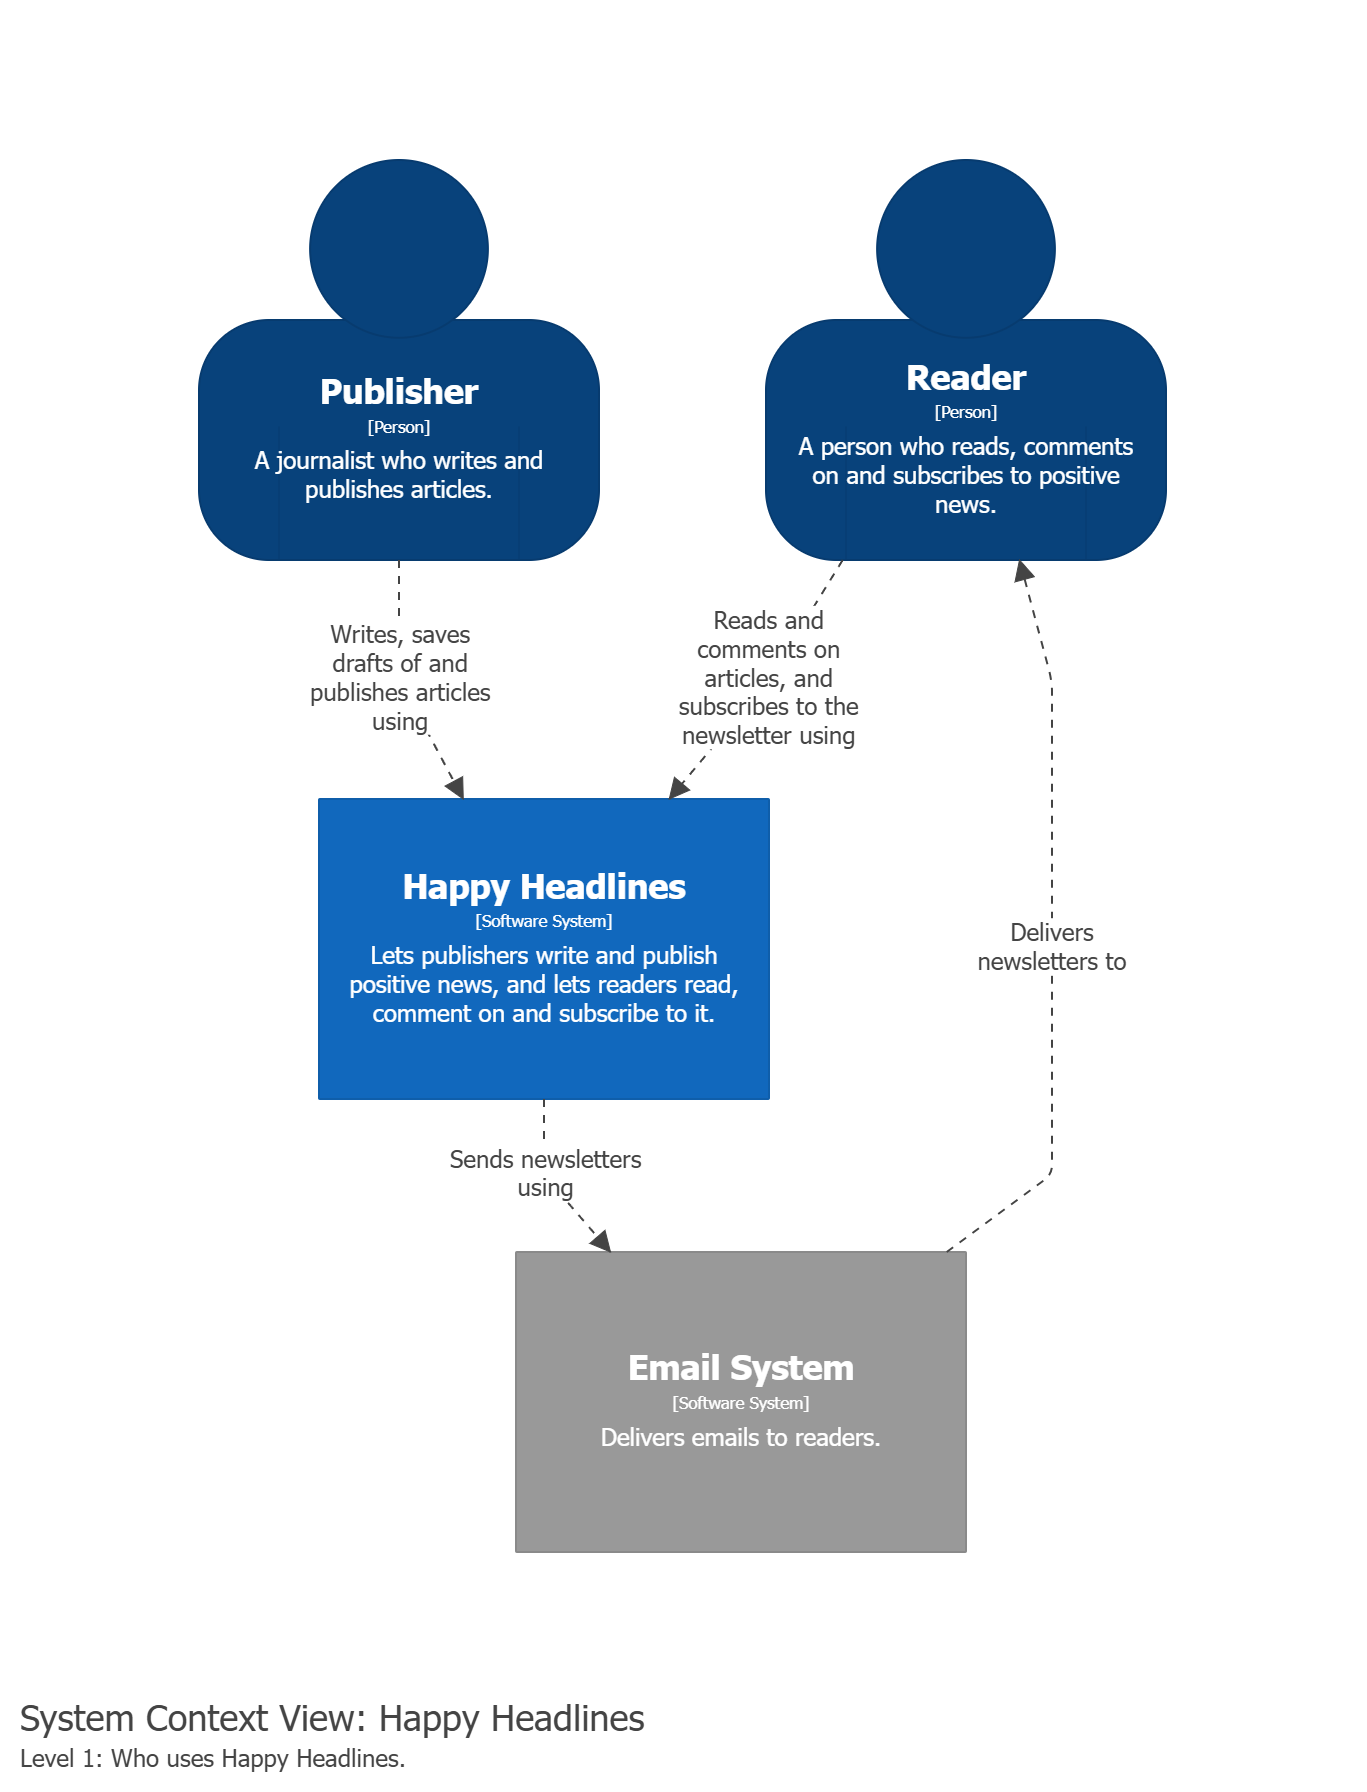
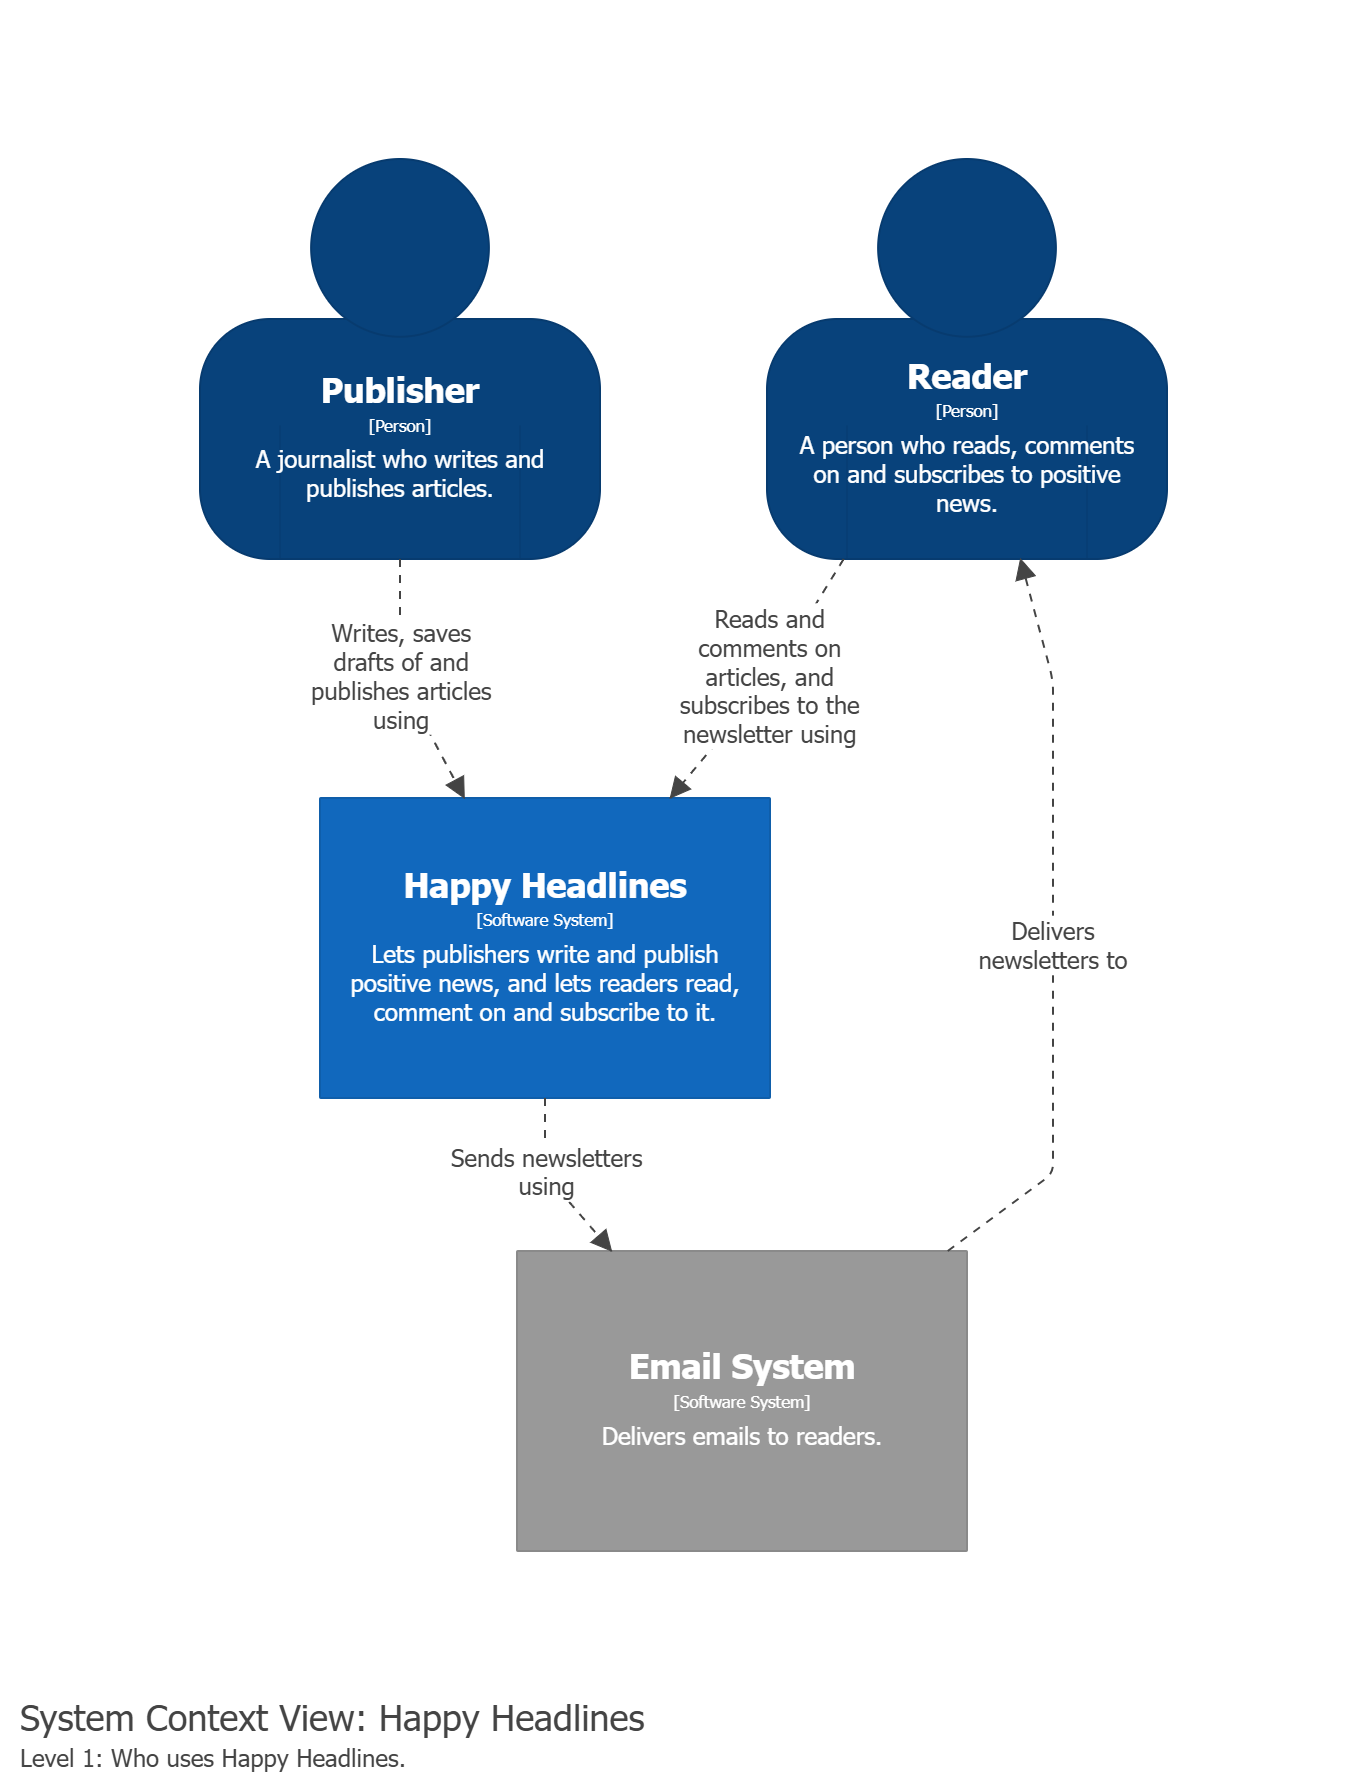
Week 36: add load balancer to the C4 diagram and write README

diff --git a/week-36/README.md b/week-36/README.md
@@ -1,25 +1,30 @@
-# Week 35 – C4 diagrams
+# Week 36 – ArticleService
 
-The first two C4 levels of Happy Headlines.
+A REST API for articles (create, read, update, delete), scaled in two ways:
 
-## Level 1 – System context
-
-![System context](docs/images/c4-level1-context.png)
-
-## Level 2 – Containers
+- **x-axis split:** 3 identical ArticleService instances behind an nginx load balancer.
+- **z-axis split:** one PostgreSQL database per continent + one for global news (8 in total).
 
 ![Containers](docs/images/c4-level2-containers.png)
-
-## Assumptions
-
-- Newsletters are sent through an external Email System.
-- NewsletterService reads new subscribers from the SubscriberQueue.
-- No technologies yet – they are chosen in later weeks.
 
 ## Run
 
 ```sh
-docker compose up
+docker compose up -d --build
 ```
 
-Open http://localhost:8080
+| URL | What |
+|-----|------|
+| http://localhost:8081/scalar | API docs (through the load balancer) |
+| http://localhost:8080 | C4 diagrams |
+
+## Endpoints
+
+| Method | URL |
+|--------|-----|
+| GET, POST | `/api/regions/{region}/articles` |
+| GET, PUT, DELETE | `/api/regions/{region}/articles/{id}` |
+
+Regions: `africa`, `antarctica`, `asia`, `europe`, `northamerica`, `oceania`, `southamerica`, `global`.
+
+Ready-made requests: [ArticleService.http](src/ArticleService/ArticleService.http). The `X-Instance` response header shows which instance answered.
